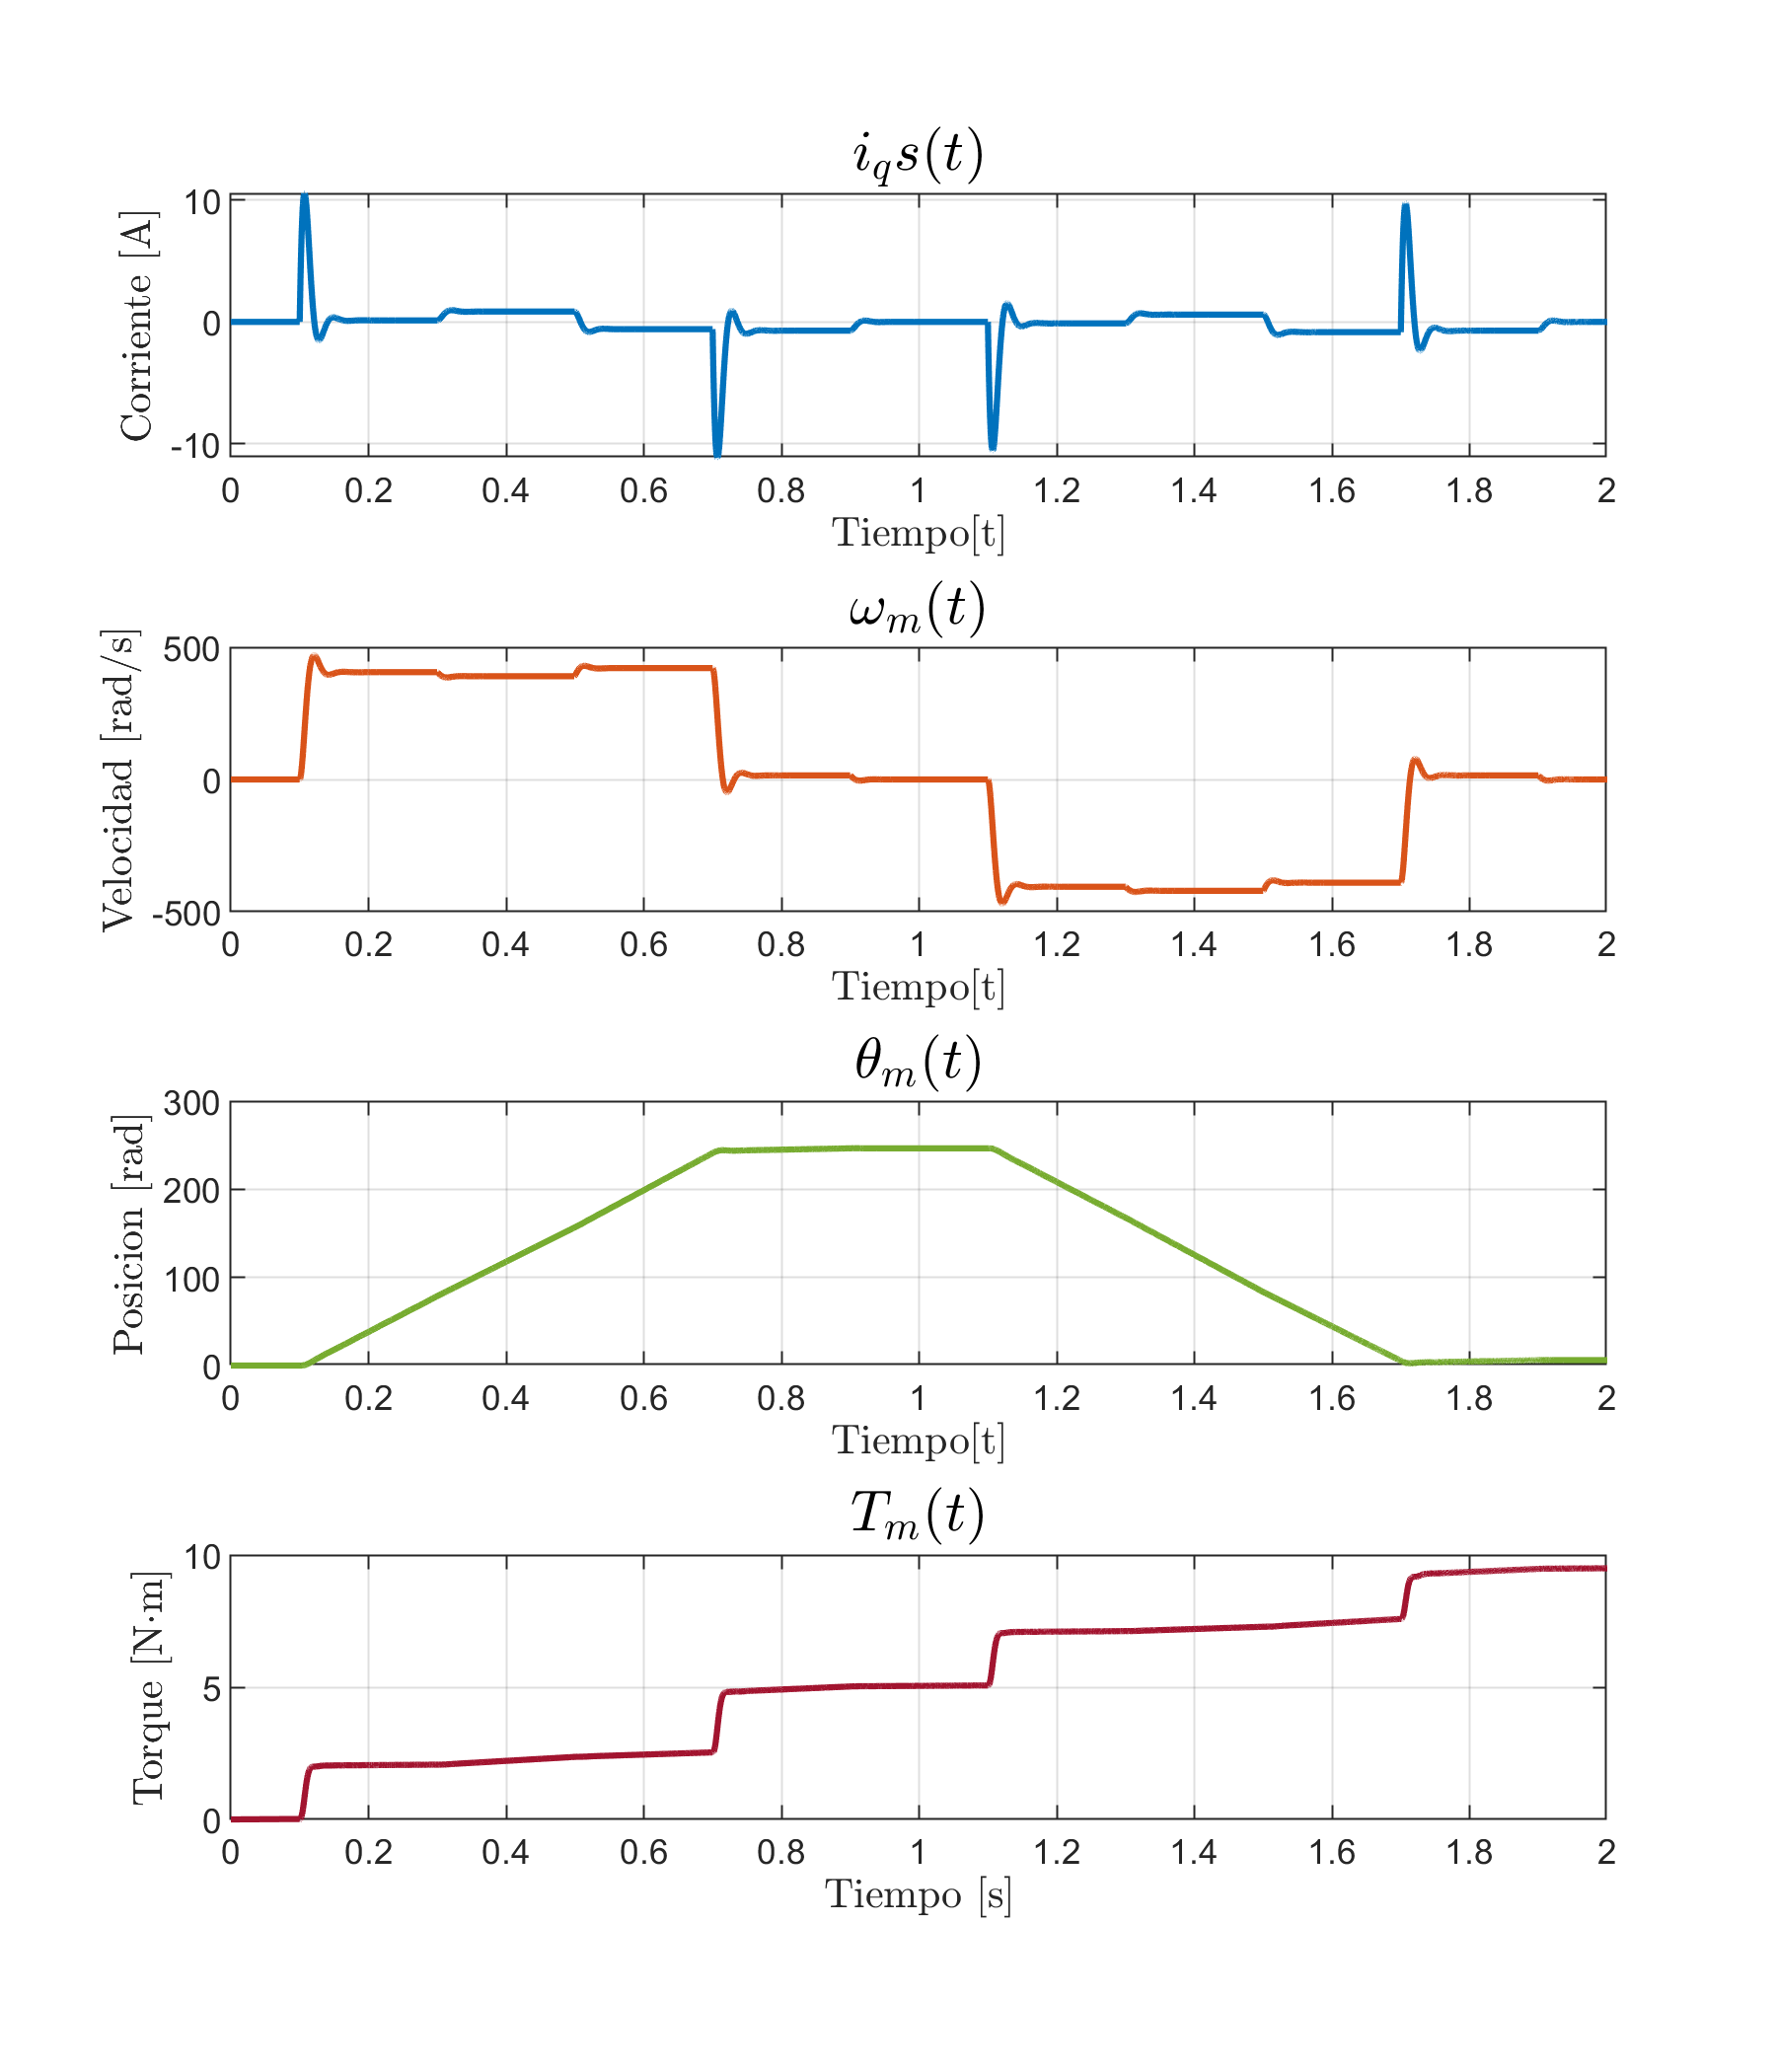
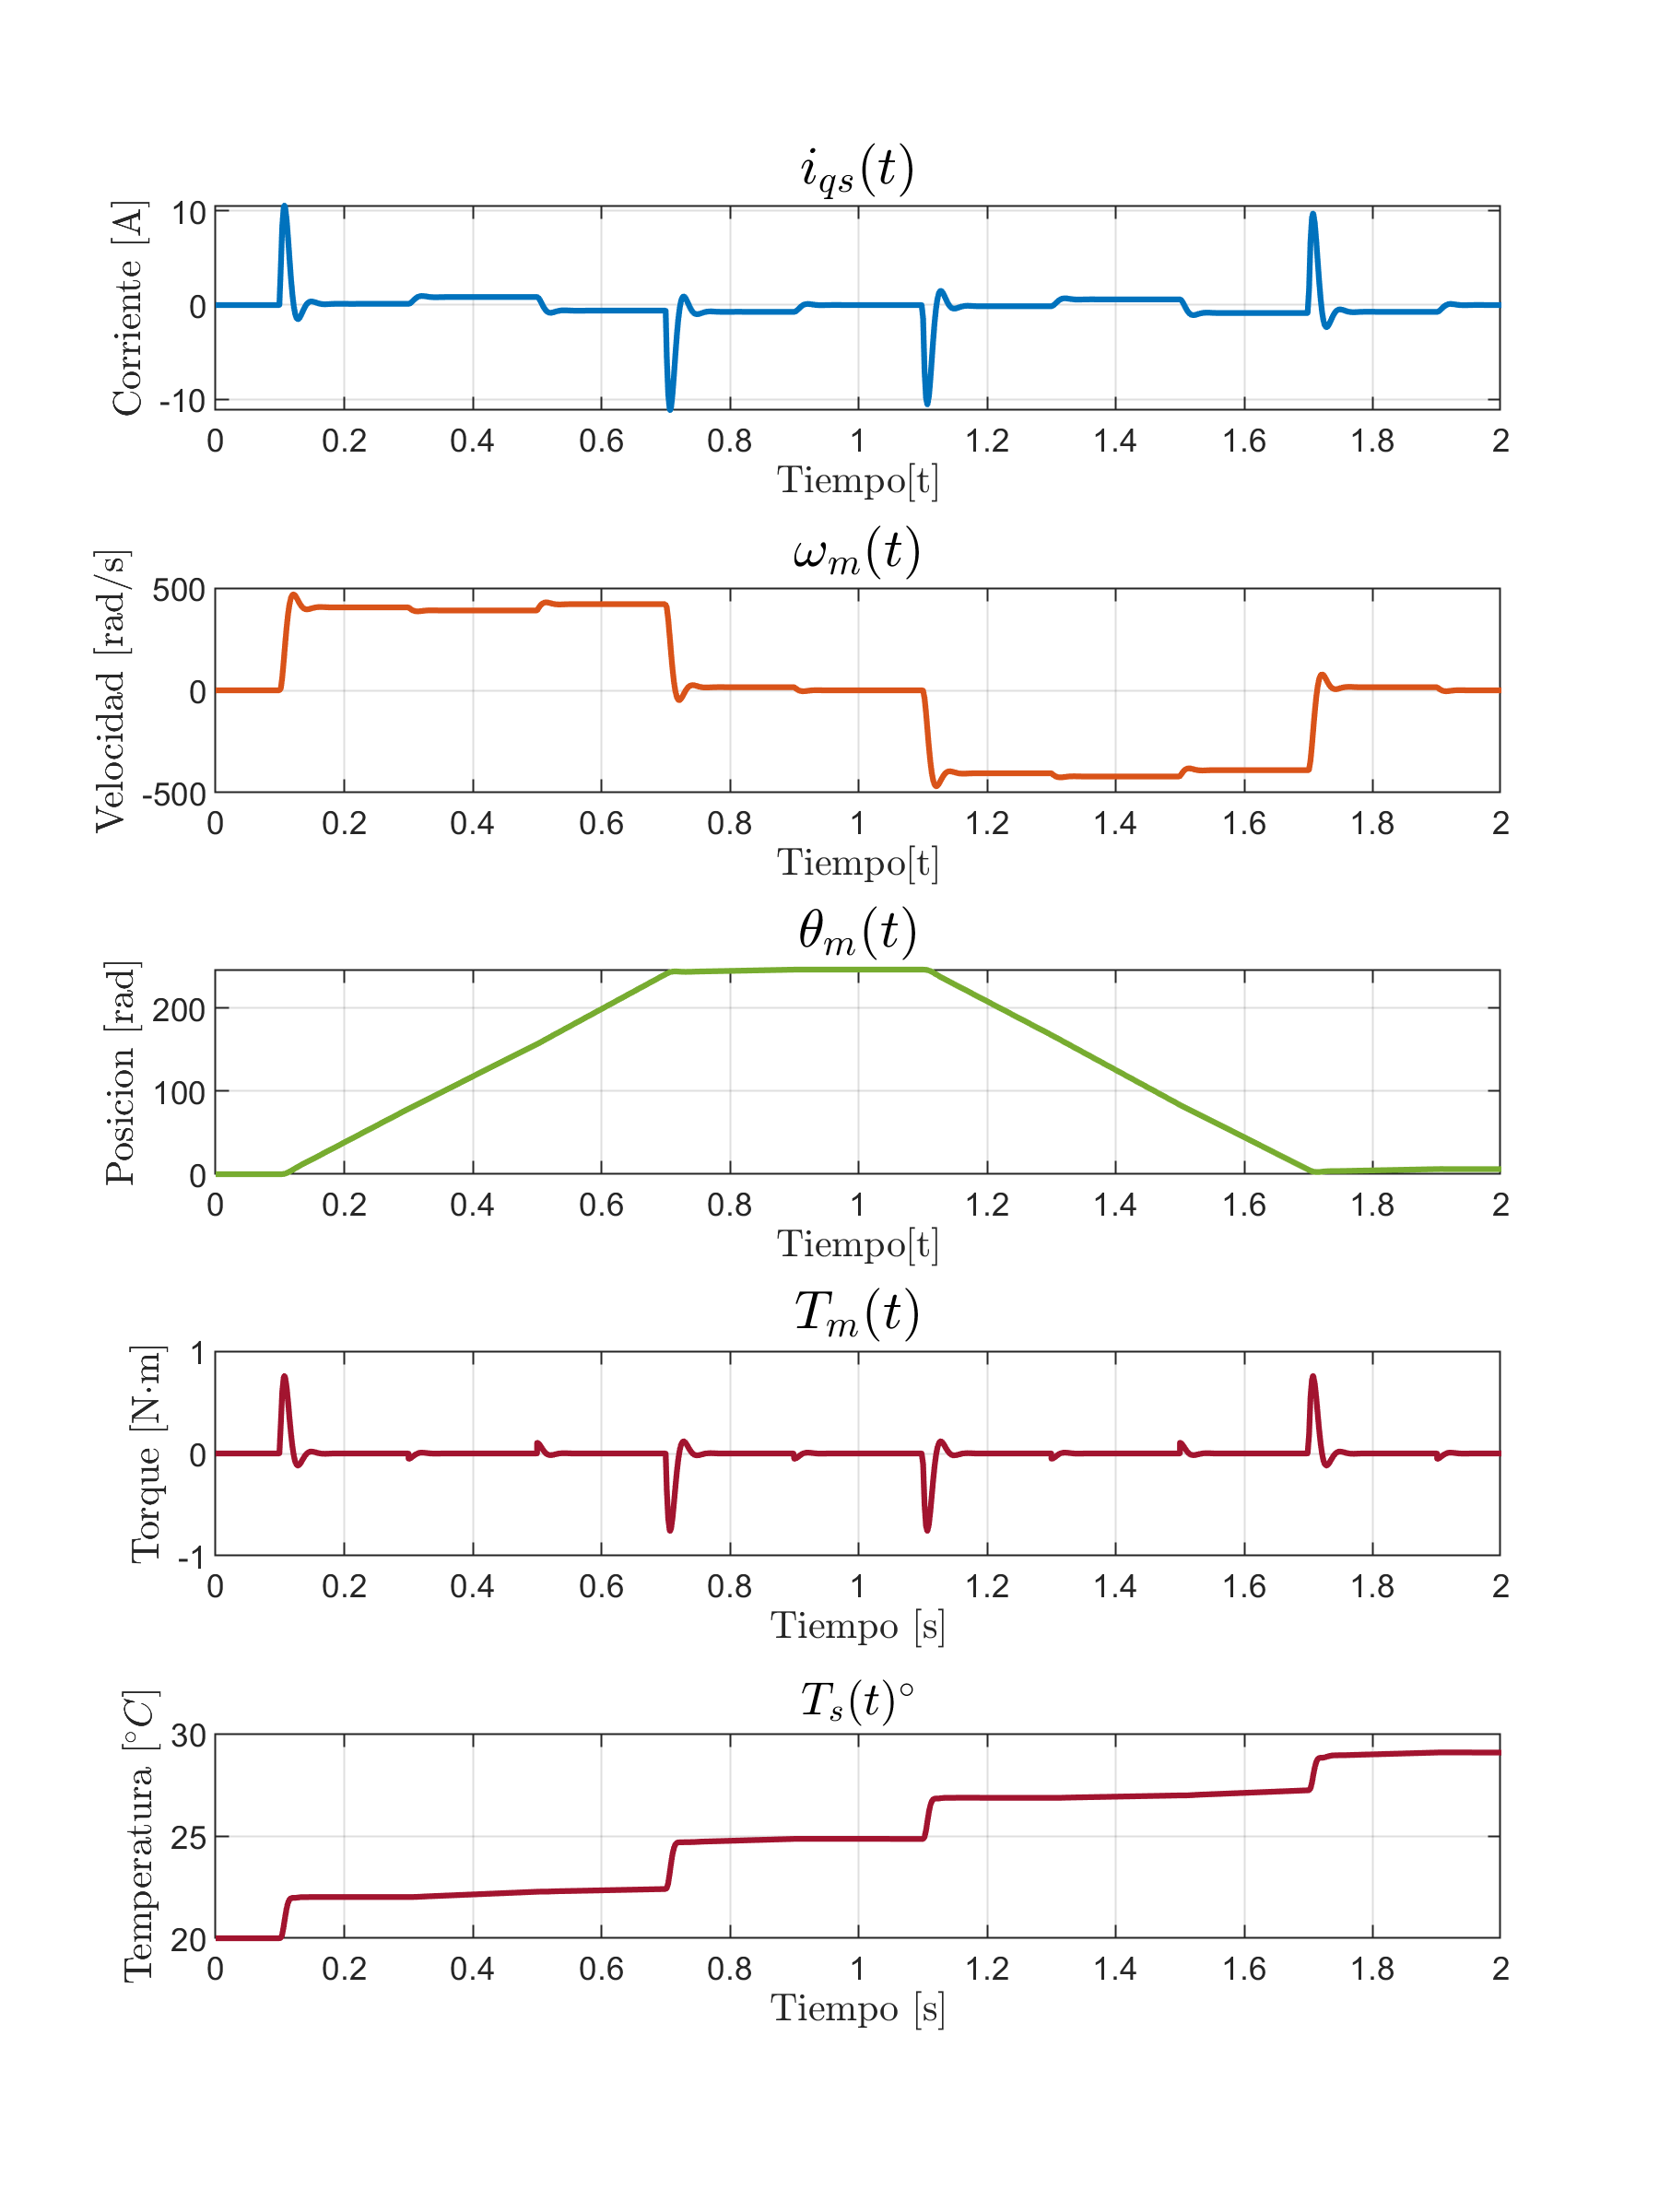
de vuelta

diff --git a/Simulacion_Dinamica.m b/Simulacion_Dinamica.m
@@ -1,13 +1,17 @@
-%% 2. EJECUTAR LA SIMULACIÓN DESDE EL SCRIPT
+%% EJECUTAR LA SIMULACIÓN DESDE EL SCRIPT
 simOut = sim('Simulacion_Temporal.slx', 'SimulationMode', 'normal');
 
-%% 3. EXTRACCIÓN DE LOS DATOS EXPORTADOS
+%% EXTRACCIÓN DE LOS DATOS EXPORTADOS
 logs = simOut.logsout;
+
+v_qs_ref = logs.get('v_ref').Values;
+T_carga = logs.get('T_carga').Values;
 
 iqs_LTI    = logs.get('i_qs_LTI').Values;
 wm_LTI     = logs.get('w_m_LTI').Values;
 thetam_LTI = logs.get('theta_m_LTI').Values;
 Ts_LTI     = logs.get('T_s_LTI').Values;
+Tm_LTI     = logs.get('T_m_LTI').Values;
 
 iqs_NL    = logs.get('i_qs_NL').Values;
 wm_NL     = logs.get('w_m_NL').Values;
@@ -15,30 +19,52 @@ thetam_NL = logs.get('theta_m_NL').Values;
 Ts_NL     = logs.get('T_s_NL').Values;
 
 % Extracción de vectores de tiempo y datos 
-t_sim           = iqs_LTI.Time;       
+t_sim           = iqs_LTI.Time;
+v_ref_data      = v_qs_ref.Data;
+T_carga_data    = T_carga.data;
+
 iqs_LTI_data    = iqs_LTI.Data;     
 wm_LTI_data     = wm_LTI.Data;      
 thetam_LTI_data = thetam_LTI.Data; 
 Ts_LTI_data     = Ts_LTI.Data; 
+Tm_LTI_data     = Tm_LTI.Data; 
 
 iqs_NL_data    = iqs_NL.Data;     
 wm_NL_data     = wm_NL.Data;      
 thetam_NL_data = thetam_NL.Data; 
 Ts_NL_data     = Ts_NL.Data; 
 
-%% 4. Gráficos LTI
-figure('Units', 'inches', 'Position', [1, 1, 6, 7]); 
+%% Graficos referencias
+figure('Units', 'inches', 'Position', [1, 1, 6, 4]);
+% Subplot 1: Tension de referencia
+subplot(2,1,1);
+plot(t_sim, v_ref_data, 'LineWidth', 1.5, 'Color', [0.9 0.4470 0.90]);
+grid on;
+ylabel('Tension [V]', 'Interpreter', 'latex', 'FontSize', 10);
+xlabel('Tiempo[t]','Interpreter', 'latex', 'FontSize', 10);
+title('$v_{qs}^*(t)$', 'Interpreter', 'latex', 'FontSize', 14, 'FontWeight','bold');
+
+% Subplot 2: Pulso de Torque de Carga
+subplot(2,1,2);
+plot(t_sim, T_carga_data, 'LineWidth', 1.5, 'Color', [0.9 0.4470 0.90]);
+grid on;
+ylabel('Torque [N.m]', 'Interpreter', 'latex', 'FontSize', 10);
+xlabel('Tiempo[t]','Interpreter', 'latex', 'FontSize', 10);
+title('$T_{l}(t)$', 'Interpreter', 'latex', 'FontSize', 14, 'FontWeight','bold');
+
+%% Gráficos LTI
+figure('Units', 'inches', 'Position', [1, 1, 6, 8]); 
 
 % Subplot 1: Corriente
-subplot(4,1,1);
+subplot(5,1,1);
 plot(t_sim, iqs_LTI_data, 'LineWidth', 1.5, 'Color', [0 0.4470 0.7410]);
 grid on;
 ylabel('Corriente [A]', 'Interpreter', 'latex', 'FontSize', 10);
 xlabel('Tiempo[t]','Interpreter', 'latex', 'FontSize', 10);
-title('$i_qs(t)$', 'Interpreter', 'latex', 'FontSize', 14, 'FontWeight','bold');
+title('$i_{qs}(t)$', 'Interpreter', 'latex', 'FontSize', 14, 'FontWeight','bold');
 
 % Subplot 2: Velocidad
-subplot(4,1,2);
+subplot(5,1,2);
 plot(t_sim, wm_LTI_data, 'LineWidth', 1.5, 'Color', [0.8500 0.3250 0.0980]);
 grid on;
 ylabel('Velocidad [rad/s]','Interpreter', 'latex', 'FontSize', 10);
@@ -46,7 +72,7 @@ xlabel('Tiempo[t]','Interpreter', 'latex', 'FontSize', 10);
 title('$\omega_m(t)$', 'Interpreter', 'latex', 'FontSize', 14, 'FontWeight','bold');
 
 % Subplot 3: Posición Angular (Corregido nombre de variable)
-subplot(4,1,3);
+subplot(5,1,3);
 plot(t_sim, thetam_LTI_data, 'LineWidth', 1.5, 'Color', [0.4660 0.6740 0.1880]);
 grid on;
 ylabel('Posicion [rad]','Interpreter', 'latex', 'FontSize', 10); 
@@ -54,12 +80,22 @@ xlabel('Tiempo[t]','Interpreter', 'latex', 'FontSize', 10);
 title('$\theta_m(t)$', 'Interpreter', 'latex', 'FontSize', 14, 'FontWeight','bold');
 
 % Subplot 4: Torque
-subplot(4,1,4);
-plot(t_sim, Ts_LTI_data, 'LineWidth', 1.5, 'Color', [0.6350 0.0780 0.1840]);
+subplot(5,1,4);
+plot(t_sim, Tm_LTI_data, 'LineWidth', 1.5, 'Color', [0.6350 0.0780 0.1840]);
 grid on;
 xlabel('Tiempo [s]','Interpreter', 'latex', 'FontSize', 10);
 ylabel('Torque [N$\cdot$m]', 'Interpreter', 'latex', 'FontSize', 10);
 title('$T_m(t)$', 'Interpreter', 'latex', 'FontSize', 14, 'FontWeight','bold');
+
+print('resultado_control_LTI', '-dpng', '-r300');
+
+% Subplot 5: Temperatura
+subplot(5,1,5);
+plot(t_sim, Ts_LTI_data, 'LineWidth', 1.5, 'Color', [0.6350 0.0780 0.1840]);
+grid on;
+xlabel('Tiempo [s]','Interpreter', 'latex', 'FontSize', 10);
+ylabel('Temperatura [$^{\circ}C$]', 'Interpreter', 'latex', 'FontSize', 10);
+title('$T_s(t)^{\circ}$', 'Interpreter', 'latex', 'FontSize', 12, 'FontWeight','bold');
 
 print('resultado_control_LTI', '-dpng', '-r300');
 
@@ -77,7 +113,7 @@ title('$i_qs(t)$', 'Interpreter', 'latex', 'FontSize', 14, 'FontWeight','bold');
 
 % Subplot 2: Velocidad
 subplot(4,1,2);
-plot(t_sim, wm_NL_data, 'LineWidth', 1.5, 'Color', [0.8500 0.3250 0.0980]);
+plot(t_sim, wm_NL_data, 'LineWidth', 1.5, 'Color', [0 0.4470 0.7410]);
 grid on;
 ylabel('Velocidad [rad/s]','Interpreter', 'latex', 'FontSize', 10);
 xlabel('Tiempo[t]','Interpreter', 'latex', 'FontSize', 10);
@@ -85,7 +121,7 @@ title('$\omega_m(t)$', 'Interpreter', 'latex', 'FontSize', 14, 'FontWeight','bol
 
 % Subplot 3: Posición Angular (Corregido nombre de variable)
 subplot(4,1,3);
-plot(t_sim, thetam_NL_data, 'LineWidth', 1.5, 'Color', [0.4660 0.6740 0.1880]);
+plot(t_sim, thetam_NL_data, 'LineWidth', 1.5, 'Color', [0 0.4470 0.7410]);
 grid on;
 ylabel('Posicion [rad]','Interpreter', 'latex', 'FontSize', 10); 
 xlabel('Tiempo[t]','Interpreter', 'latex', 'FontSize', 10);
@@ -93,7 +129,7 @@ title('$\theta_m(t)$', 'Interpreter', 'latex', 'FontSize', 14, 'FontWeight','bol
 
 % Subplot 4: Torque
 subplot(4,1,4);
-plot(t_sim, Ts_NL_data, 'LineWidth', 1.5, 'Color', [0.6350 0.0780 0.1840]);
+plot(t_sim, Ts_NL_data, 'LineWidth', 1.5, 'Color', [0 0.4470 0.7410]);
 grid on;
 xlabel('Tiempo [s]','Interpreter', 'latex', 'FontSize', 10);
 ylabel('Torque [N$\cdot$m]', 'Interpreter', 'latex', 'FontSize', 10);